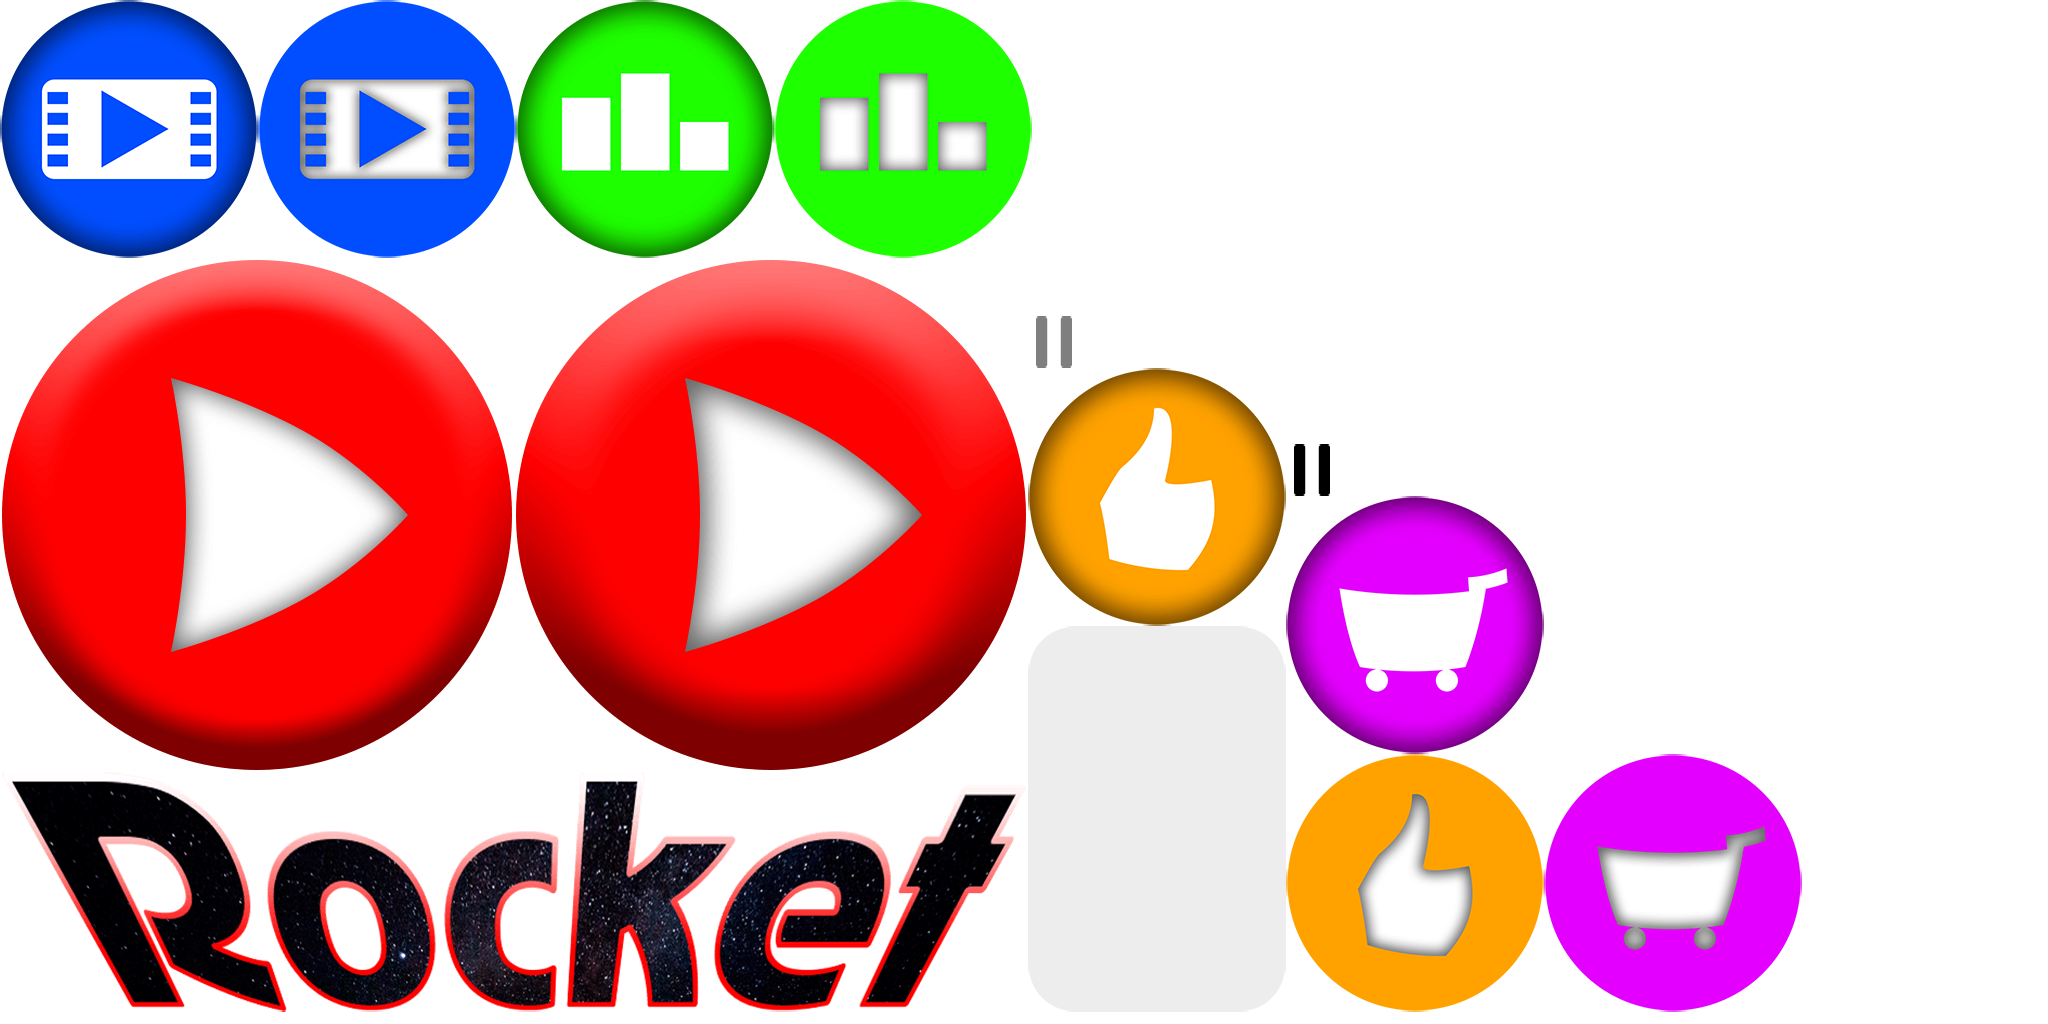
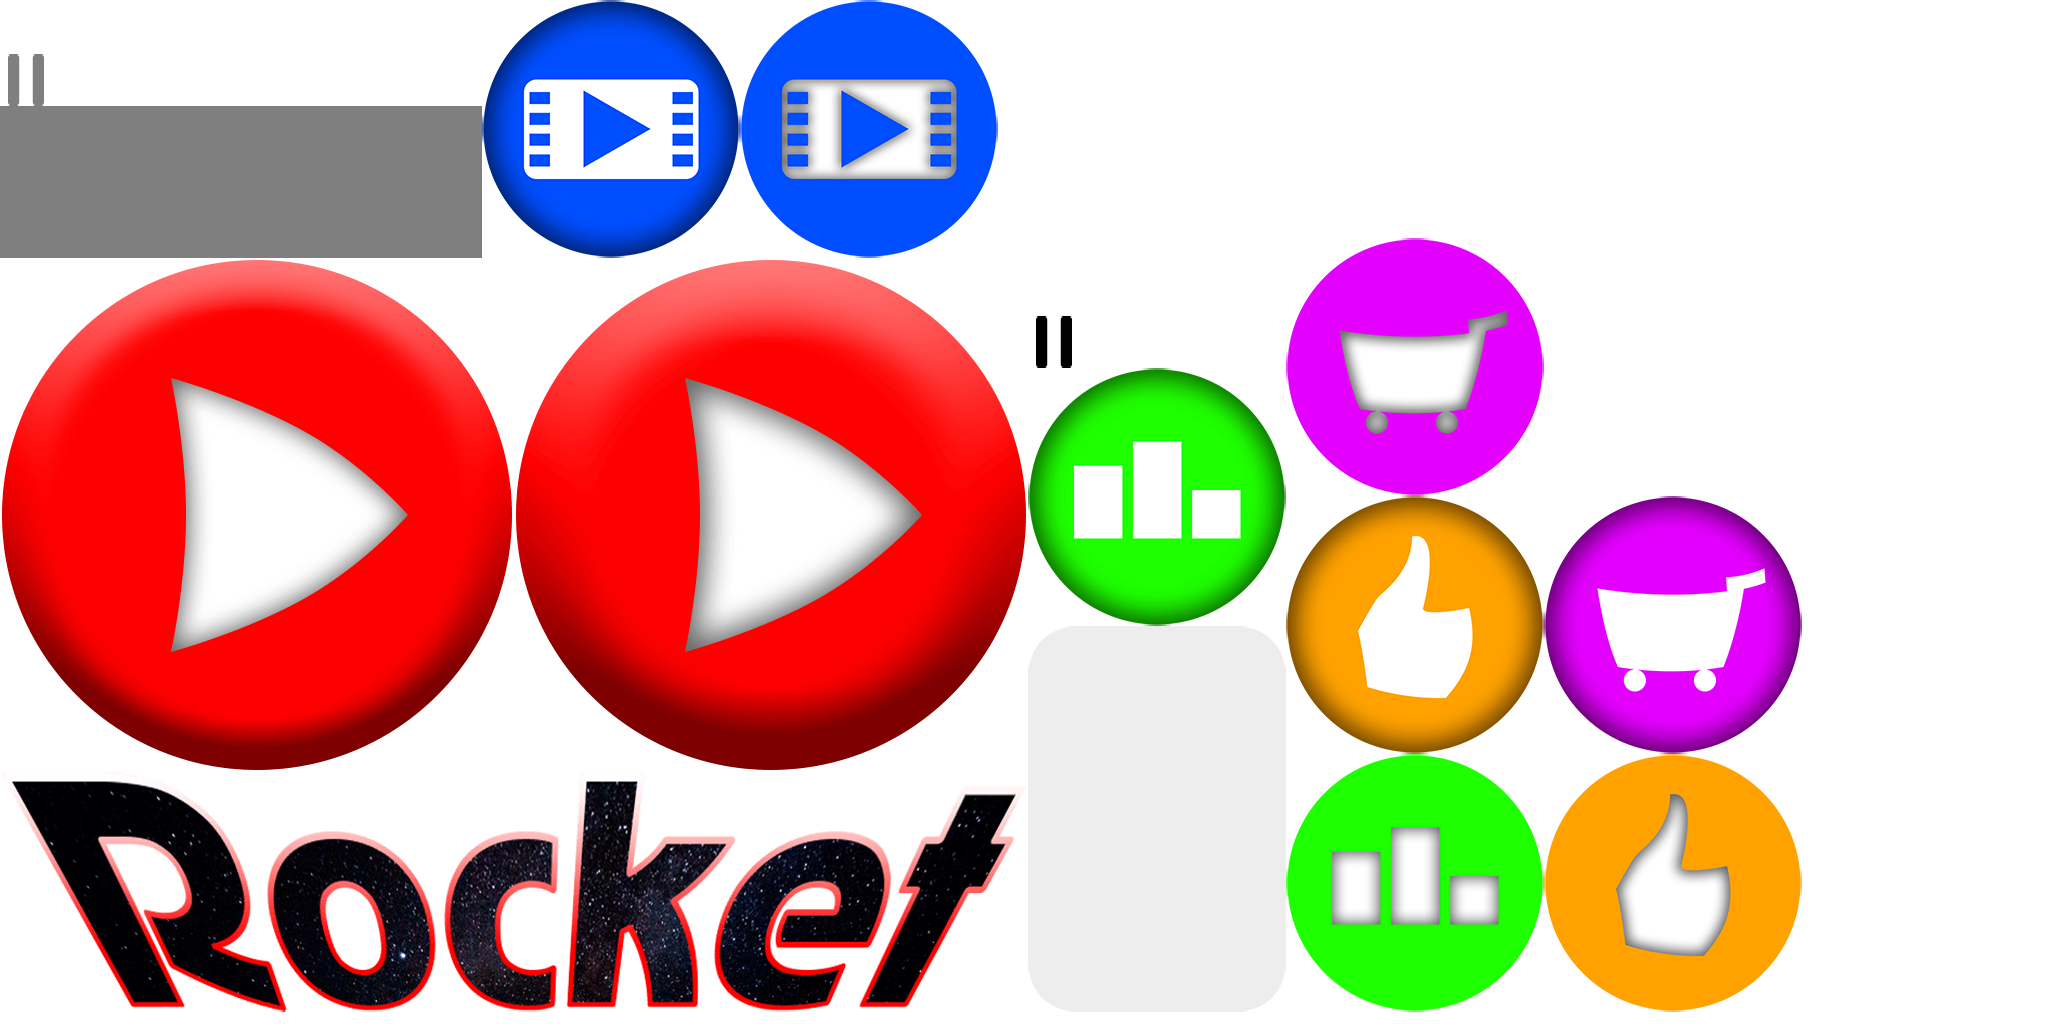
Changed shop structure, added skin file, created special folder for fonts

Changed region(s): [[0.5, 0.2188, 0.9062, 1.0], [0.0, 0.0, 0.5, 0.25]]

diff --git a/core/src/com/divelix/rocket/screens/ShopScreen.java b/core/src/com/divelix/rocket/screens/ShopScreen.java
@@ -7,7 +7,9 @@ import com.badlogic.gdx.graphics.GL20;
 import com.badlogic.gdx.graphics.g2d.Sprite;
 import com.badlogic.gdx.scenes.scene2d.Stage;
 import com.badlogic.gdx.scenes.scene2d.ui.Image;
+import com.badlogic.gdx.scenes.scene2d.ui.ScrollPane;
 import com.badlogic.gdx.scenes.scene2d.ui.Table;
+import com.badlogic.gdx.utils.Align;
 import com.badlogic.gdx.utils.viewport.FillViewport;
 import com.badlogic.gdx.utils.viewport.Viewport;
 import com.divelix.rocket.Main;
@@ -23,7 +25,8 @@ public class ShopScreen implements Screen {
     private Game game;
     private Viewport view;
     private Stage stage;
-    private ShopCell sc1, sc2, sc3, sc4, sc5, sc6;
+    private Table table;
+    private ScrollPane scrollPane;
 
     public ShopScreen(Game game) {
         this.game = game;
@@ -33,20 +36,45 @@ public class ShopScreen implements Screen {
     public void show() {
         view = new FillViewport(Main.WIDTH, Main.HEIGHT);
         stage = new Stage(view);
-
-        sc1 = new ShopCell(40, 500, Resource.rocket, 500);
-        sc2 = new ShopCell(190, 500, Resource.doubleGreenRocket, 500);
-        sc3 = new ShopCell(340, 500, Resource.greenRocket, 500);
-        sc4 = new ShopCell(40, 300, Resource.shuttleRocket, 500);
-        sc5 = new ShopCell(190, 300, Resource.smallRocket, 500);
-        sc6 = new ShopCell(340, 300, Resource.yellowRocket, 500);
-
-        stage.addActor(sc1);
-        stage.addActor(sc2);
-        stage.addActor(sc3);
-        stage.addActor(sc4);
-        stage.addActor(sc5);
-        stage.addActor(sc6);
+        table = new Table();
+        table.setSize(Main.WIDTH - Main.WIDTH/10, Main.HEIGHT - 250);
+//        table.align(Align.center|Align.top);
+        table.setPosition(Main.WIDTH/20, 0);
+//        table.setDebug(true);
+        table.add(new ShopCell(Resource.rocket, 100)).width(100).pad(5);
+        table.add(new ShopCell(Resource.doubleGreenRocket, 200)).width(100).pad(5);
+        table.add(new ShopCell(Resource.greenRocket, 300)).width(100).pad(5);
+        table.row();
+        table.add(new ShopCell(Resource.shuttleRocket, 400)).width(100).pad(5);
+        table.add(new ShopCell(Resource.smallRocket, 500)).width(100).pad(5);
+        table.add(new ShopCell(Resource.yellowRocket, 600)).width(100).pad(5);
+        table.row();
+        table.add(new ShopCell(Resource.rocket, 100)).width(100).pad(5);
+        table.add(new ShopCell(Resource.rocket, 100)).width(100).pad(5);
+        table.add(new ShopCell(Resource.rocket, 100)).width(100).pad(5);
+        table.row();
+        table.add(new ShopCell(Resource.rocket, 100)).width(100).pad(5);
+        table.add(new ShopCell(Resource.rocket, 100)).width(100).pad(5);
+        table.add(new ShopCell(Resource.rocket, 100)).width(100).pad(5);
+        scrollPane = new ScrollPane(table);
+        scrollPane.debugAll();
+        scrollPane.setSize(table.getWidth(), table.getHeight());
+        scrollPane.setPosition(Main.WIDTH/20, 0);
+        stage.addActor(scrollPane);
+//----------------------------------------------------------------------
+//        sc1 = new ShopCell(40, 500, Resource.rocket, 500);
+//        sc2 = new ShopCell(190, 500, Resource.doubleGreenRocket, 500);
+//        sc3 = new ShopCell(340, 500, Resource.greenRocket, 500);
+//        sc4 = new ShopCell(40, 300, Resource.shuttleRocket, 500);
+//        sc5 = new ShopCell(190, 300, Resource.smallRocket, 500);
+//        sc6 = new ShopCell(340, 300, Resource.yellowRocket, 500);
+//
+//        stage.addActor(sc1);
+//        stage.addActor(sc2);
+//        stage.addActor(sc3);
+//        stage.addActor(sc4);
+//        stage.addActor(sc5);
+//        stage.addActor(sc6);
     }
 
     @Override

diff --git a/core/src/com/divelix/rocket/actors/ShopCell.java b/core/src/com/divelix/rocket/actors/ShopCell.java
@@ -1,10 +1,9 @@
 package com.divelix.rocket.actors;
 
 import com.badlogic.gdx.graphics.Color;
-import com.badlogic.gdx.graphics.g2d.Batch;
-import com.badlogic.gdx.graphics.g2d.Sprite;
 import com.badlogic.gdx.graphics.g2d.TextureRegion;
-import com.badlogic.gdx.scenes.scene2d.Actor;
+import com.badlogic.gdx.scenes.scene2d.Group;
+import com.badlogic.gdx.scenes.scene2d.ui.Image;
 import com.badlogic.gdx.scenes.scene2d.ui.Label;
 import com.divelix.rocket.Resource;
 
@@ -12,28 +11,34 @@ import com.divelix.rocket.Resource;
  * Created by Sergei Sergienko on 28.02.2017.
  */
 
-public class ShopCell extends Actor {
+public class ShopCell extends Group {
 
     private final float WIDTH = 100;
     private final float HEIGHT = 150;
-    private Sprite rocket, cellBg;
+    private Image rocket, cellBg;
     private Label label;
 
-    public ShopCell(float x, float y, TextureRegion tr, int price) {
-        setBounds(x, y, WIDTH, HEIGHT);
-        cellBg = new Sprite(Resource.cellBg);
-        cellBg.setBounds(getX(), getY(), getWidth(), getHeight());
-        rocket = new Sprite(tr);
+    public ShopCell(TextureRegion rocketImg, int price) {
+        super.setSize(WIDTH, HEIGHT);
+        cellBg = new Image(Resource.cellBg);
+        cellBg.setSize(WIDTH, HEIGHT);
+        rocket = new Image(rocketImg);
         float aspectRatio = rocket.getWidth()/rocket.getHeight();
-        rocket.setBounds(getX() + WIDTH/2-(HEIGHT*0.3f*aspectRatio), getY() + HEIGHT/3, HEIGHT*0.6f*aspectRatio, HEIGHT*0.6f);
+        rocket.setBounds(cellBg.getX() + WIDTH/2-(HEIGHT*0.3f*aspectRatio), cellBg.getY() + HEIGHT/3, HEIGHT*0.6f*aspectRatio, HEIGHT*0.6f);
         label = new Label("" + price, new Label.LabelStyle(Resource.font, Color.YELLOW));
-        label.setPosition(getX() + WIDTH/7, getY() + HEIGHT/15);
+        label.setPosition(cellBg.getX() + WIDTH/7, cellBg.getY() + HEIGHT/15);
+        super.addActor(cellBg);
+        super.addActor(rocket);
+        super.addActor(label);
+//        float aspectRatio = rocket.getWidth()/rocket.getHeight();
+//        rocket.setBounds(getX() + WIDTH/2-(HEIGHT*0.3f*aspectRatio), getY() + HEIGHT/3, HEIGHT*0.6f*aspectRatio, HEIGHT*0.6f);
+//        label.setPosition(getX() + WIDTH/7, getY() + HEIGHT/15);
     }
 
-    @Override
-    public void draw(Batch batch, float parentAlpha) {
-        cellBg.draw(batch, parentAlpha);
-        rocket.draw(batch, parentAlpha);
-        label.draw(batch, parentAlpha);
-    }
+//    @Override
+//    public void draw(Batch batch, float parentAlpha) {
+//        cellBg.draw(batch, parentAlpha);
+//        rocket.draw(batch, parentAlpha);
+//        label.draw(batch, parentAlpha);
+//    }
 }

diff --git a/core/src/com/divelix/rocket/Resource.java b/core/src/com/divelix/rocket/Resource.java
@@ -80,7 +80,7 @@ public class Resource {
         cloud8 = new TextureRegion(gamePack.findRegion("cloud8"));
         cloud9 = new TextureRegion(gamePack.findRegion("cloud9"));
 
-        FreeTypeFontGenerator generator = new FreeTypeFontGenerator(Gdx.files.internal("AGRevueCyrRoman.ttf"));
+        FreeTypeFontGenerator generator = new FreeTypeFontGenerator(Gdx.files.internal("fonts/AGRevueCyrRoman.ttf"));
         FreeTypeFontGenerator.FreeTypeFontParameter params = new FreeTypeFontGenerator.FreeTypeFontParameter();
         params.size = 24;
         font = generator.generateFont(params);
